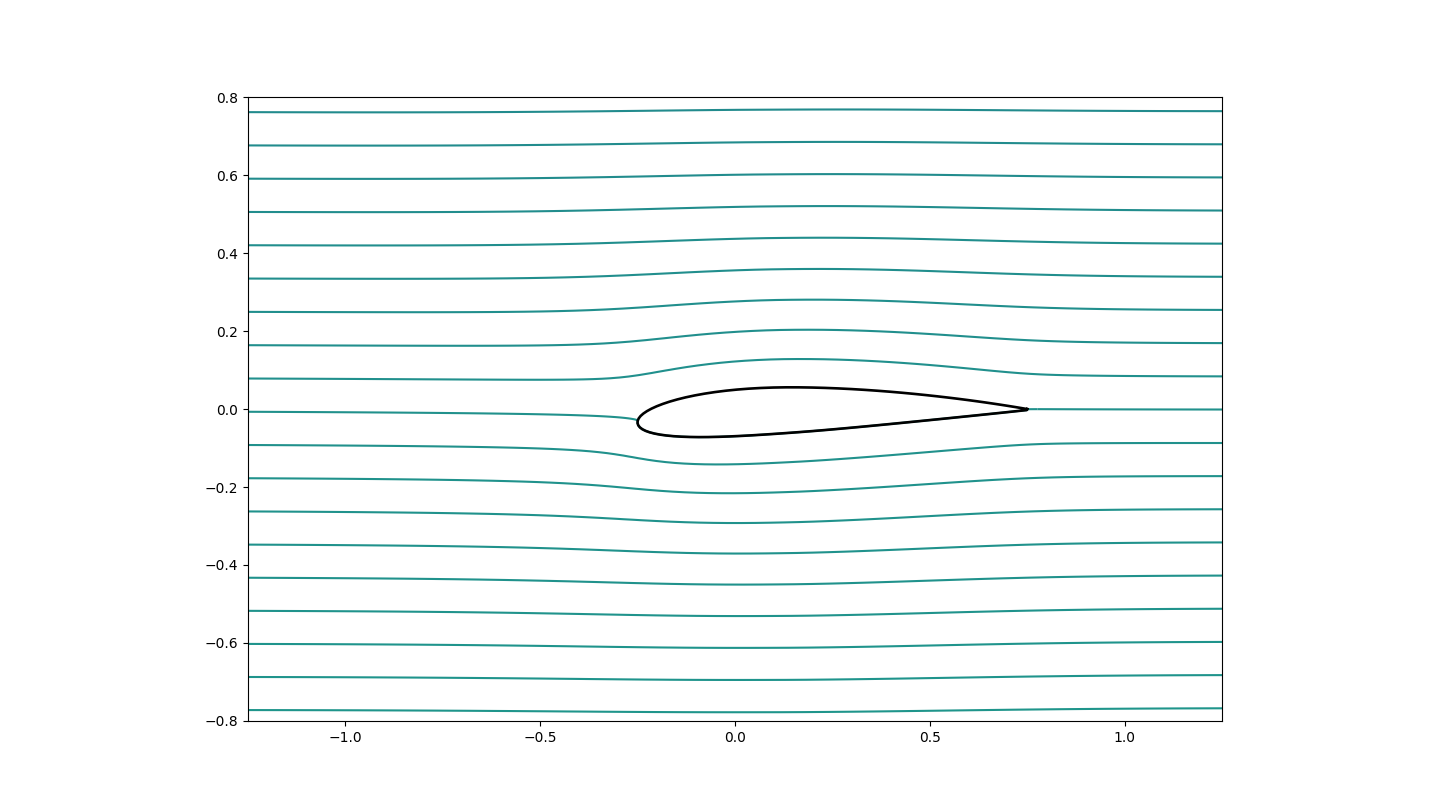
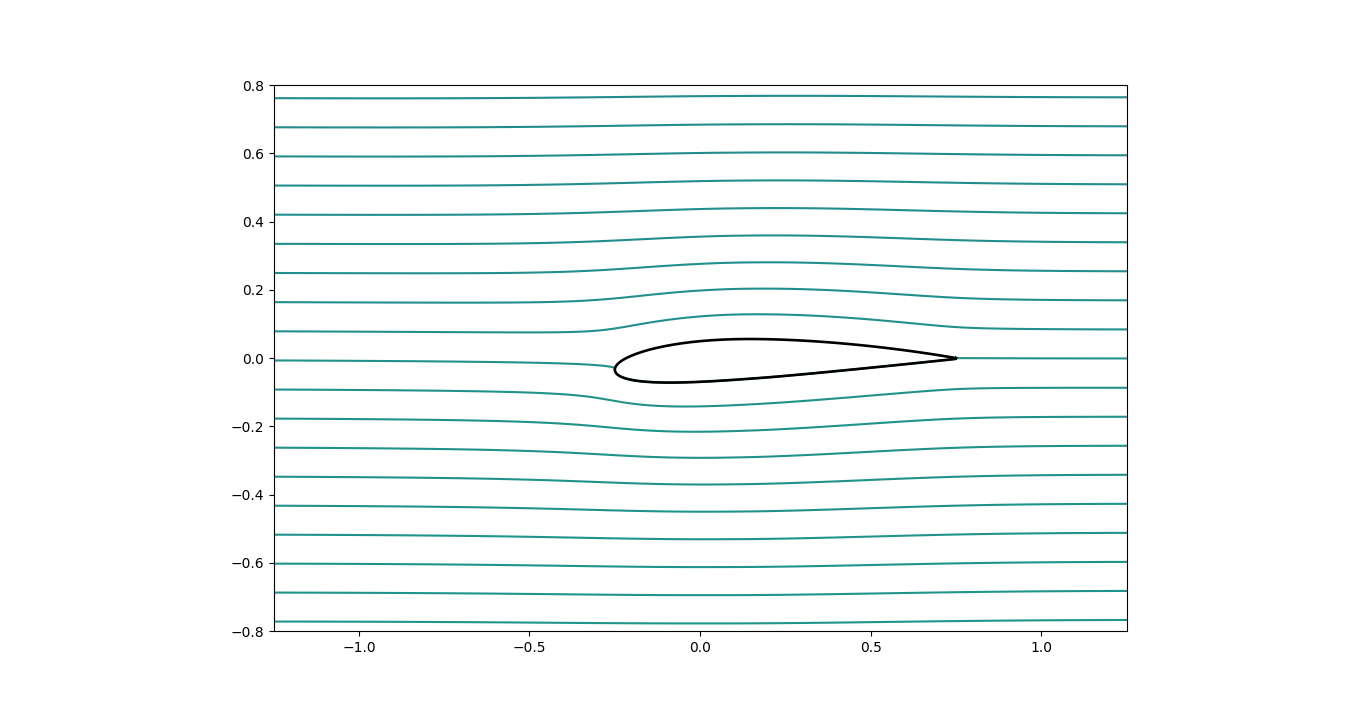
resultados flujo potencial

diff --git a/potential.py b/potential.py
@@ -108,11 +108,11 @@ def potential_flow_o(d0, H0, gamma, mach_inf, v_inf, alfa, mesh):
     PH = np.zeros((M-1, N))
     PV = np.zeros((M, N-1))
 
-    ddd = 1.0
+    err = 1.0
     it_max = 28000
     it = 0
     error = 1e-8
-    omega = 1.5
+    omega = 1.5 # 1.5
     IMA = 0
 
     arcotan = np.zeros((M,))
@@ -135,17 +135,15 @@ def potential_flow_o(d0, H0, gamma, mach_inf, v_inf, alfa, mesh):
 
     error = 1e-5
     print('Potential Flow')
-    while ddd > error and it < it_max:
+    while err > error and it < it_max:
         print('it =  ' + str(it), end=' ')
-        print('ddd = ' + '{0:.4e}'.format(ddd), end=' ')
+        print('err = ' + '{0:.4e}'.format(err), end=' ')
         print('C = ' + '{:.5e}'.format(C), end=' ')
         print('\t', end='\r')
         it += 1
         phi_old = np.copy(phi)
 
-        # Función potencial en la frontera externa
-        # phi[:, -1] = v_inf * (X[:, -1] * np.cos(alfa) + Y[:, -1]
-        #                         * np.sin(alfa)) + C * arcotan[:] / 2 / np.pi
+        # Función potencial en la frontera externa ec 4.18
         phi[:, 0] = v_inf * (X[:, 0] * np.cos(alfa) + Y[:, 0]
                               * np.sin(alfa)) + C * arcotan[:] / 2 / np.pi
 
@@ -161,6 +159,7 @@ def potential_flow_o(d0, H0, gamma, mach_inf, v_inf, alfa, mesh):
 
         # quizá se le deba restar la circulación
         PV[-1, :] = PV[0, :]
+        # PV[-1, :] = (4 * PV[0, :] - 2 * C) / 4
 
         for j in range(N-1):
             UV[:, j] = g11V[:, j] * PV[:, j] + g12V[:, j] \
@@ -259,23 +258,26 @@ def potential_flow_o(d0, H0, gamma, mach_inf, v_inf, alfa, mesh):
                         [i, j] + rhoV[i, j-1] * JV[i, j-1] * g22V[i, j-1])
 
         # Aplicamos el método SOR de sobrerelajación, ecuación.
-        phi = omega * phi + (1-omega) * phi_old
+        phi = omega * phi + (1 - omega) * phi_old
 
         # condición en la superficie del perfil
         # for i in range(1, M-1):
         for i in range(M-2, 0, -1):
             phi[i, N-1] = 1 / 3 * (4 * phi[i, N-2] - phi[i, N-3] - g12[i, N-2]
                             / g22[i, N-2] * (phi[i+1, N-1] - phi[i-1, N-1]))
+            # phi[i, N-1] = 1 / 3 * (4 * phi[i, N-2] - phi[i, N-3] - g12[i, N-1]
+            #                 / g22[i, N-1] * (phi[i+1, N-1] - phi[i-1, N-1]))
 
         phi[0, N-1] = 1 / 3 * (4 * phi[0, N-2] - phi[0, N-3] - g12[0, N-1]
                             / g22[0, N-1] * (phi[1, N-1] - phi[M-2, N-1] + C))
 
         # discontinuidad del potencial
-        for j in range(N):
-            phi[M-1, j] = phi[0, j] + C
+        # for j in range(N):
+        #     phi[M-1, j] = phi[0, j] + C
+        phi[M-1, :] = phi[0, :] + C
 
 
-        ddd = abs(phi - phi_old).max()
+        err = abs(phi - phi_old).max()
 
         # cálculo de la Circulación
         C = phi[M-2, N-1] - phi[1, N-1] - g12[0, N-1] * \
@@ -640,12 +642,12 @@ def pressure(u, v, v_inf, d_inf, gamma, p_inf, p0, d0, h0):
     d = d0 * (1 - (u ** 2 + v ** 2) / 2 / h0) ** (1 / (gamma - 1))
 
     # relaciones isentropicas
-    p = p0 / (d0 / d) ** gamma
+    # p = p0 / (d0 / d) ** gamma
     # p = (p0 - p_inf) * (d / d0) ** gamma
-    # p = p0 * (d / d0) ** gamma
-    # cp = np.real(2 * (p - p_inf) / (d_inf * v_inf ** 2))
+    p = p0 * (d / d0) ** gamma
+    cp = np.real(2 * (p - p_inf) / (d_inf * v_inf ** 2))
     # cp = 1 - (u ** 2 + v ** 2) / v_inf ** 2
-    cp = (p - p_inf) / (p0 - p_inf)
+    # cp = (p - p_inf) / (p0 - p_inf)
 
     return (cp, p)
 
@@ -660,6 +662,7 @@ def streamlines(u, v, gamma, h0, d0, p, mesh):
     mesh.Y = np.flip(mesh.Y)
     u = np.flip(u)
     v = np.flip(v)
+    p = np.flip(p)
 
     psi = np.zeros((M, N))
     JU = np.zeros((M, N))
@@ -712,13 +715,9 @@ def lift_n_drag(mesh, cp, alfa, c):
     kx = cp[:, -1] * y_xi[:, -1] / c
     ky = cp[:, -1] * x_xi[:, -1] / c
 
-    print("cp[:, -1] = ", cp[:, -1])
     xi = np.linspace(1, M, M)
-    print("xi = ", xi)
     cl_x = -np.trapz(kx, xi)
     cl_y = np.trapz(ky, xi)
-    print("cl_x = ", cl_x)
-    print("cl_y = ", cl_y)
 
     L = -cl_x * np.sin(alfa) + cl_y * np.cos(alfa)
     D = cl_x * np.cos(alfa) + cl_y * np.sin(alfa)

diff --git a/Escrito/tesis.tex b/Escrito/tesis.tex
@@ -4244,7 +4244,7 @@
     \begin{figure}[htbp!]
         \centering
         \subfigure[$\alpha = -4\si{\degree}$]{\label{fig:potential_flow_stream_-4}\includegraphics[keepaspectratio,
-            width=90mm]{./Imagenes/potential_flow_stream_-4}}
+            width=95mm]{./Imagenes/potential_flow_stream_-4}}
 
           \subfigure[$\alpha = -2\si{\degree}$]{\label{fig:potential_flow_stream_-2}\includegraphics[keepaspectratio,
             width=95mm]{./Imagenes/potential_flow_stream_-2}}
@@ -4262,16 +4262,16 @@
     \begin{figure}[htbp!]
         \centering
         \subfigure[$\alpha = 4\si{\degree}$]{\label{fig:potential_flow_stream_4}\includegraphics[keepaspectratio,
-            width=93mm]{./Imagenes/potential_flow_stream_4}}
+            width=95mm]{./Imagenes/potential_flow_stream_4}}
 
           \subfigure[$\alpha = 6\si{\degree}$]{\label{fig:potential_flow_stream_6}\includegraphics[keepaspectratio,
-            width=93mm]{./Imagenes/potential_flow_stream_6}}
+            width=95mm]{./Imagenes/potential_flow_stream_6}}
 
           \subfigure[$\alpha = 8\si{\degree}$]{\label{fig:potential_flow_stream_8}\includegraphics[keepaspectratio,
-            width=93mm]{./Imagenes/potential_flow_stream_8}}
+            width=95mm]{./Imagenes/potential_flow_stream_8}}
 
           \subfigure[$\alpha = 10\si{\degree}$]{\label{fig:potential_flow_stream_10}\includegraphics[keepaspectratio,
-            width=93mm]{./Imagenes/potential_flow_stream_10}}
+            width=95mm]{./Imagenes/potential_flow_stream_10}}
 
         \caption{Líneas de corriente}
         \label{fig:potential_flow_stream_1}

diff --git a/main_potential.py b/main_potential.py
@@ -46,7 +46,7 @@ R = 20 * c
 
 perfil = airfoil.NACA4(m, p, t, c)
 perfil.create_sin(points)
-perfil.rotate(2)
+# perfil.rotate(2)
 
 archivo_perfil = 'perfil_final.csv'
 if malla == 'O':
@@ -93,7 +93,7 @@ t_inf = 293.15 # [K]
 p_inf = 101325  # [Pa]
 v_inf = 48 # [m / s]
 
-alfa = 0
+alfa = 6
 
 gamma = 1.4
 cp_ = 1007
@@ -139,8 +139,8 @@ if flag == 'S':
 (u, v) = velocity(alfa, C, mach_inf, theta, mallaNACA, phi, v_inf)
 (cp, p) = pressure(u, v, v_inf, d_inf, gamma, p_inf, p0, d0, h0)
 (psi, mach) = streamlines(u, v, gamma, h0, d0, p, mallaNACA)
-# (L, D) = lift_n_drag(mallaNACA, cp, alfa, c)
-(L, D) = lift_n_drag(mallaNACA, cp, 2, c)
+(L, D) = lift_n_drag(mallaNACA, cp, alfa, c)
+# (L, D) = lift_n_drag(mallaNACA, cp, 2, c)
 
 print('L = ' + str(L))
 print('D = ' + str(D))

diff --git a/main_potential_after.py b/main_potential_after.py
@@ -45,7 +45,7 @@ Re = v_inf * d_inf / mu
 
 
 path = '/home/cardoso/'
-direc = 'zero'
+direc = 'four-'
 mallaNACA = helpers.from_txt_mesh(filename='./potential_2412/' + direc
                                   + '/mallaNACA.txt_mesh')
 phi = np.genfromtxt('./potential_2412/' + direc + '/phi.csv', delimiter=',')
@@ -57,7 +57,7 @@ theta = np.genfromtxt('./potential_2412/' + direc + '/theta.csv',
 (u, v) = velocity(alfa, C, mach_inf, theta, mallaNACA, phi, v_inf)
 (cp, p) = pressure(u, v, v_inf, d_inf, gamma, p_inf, p0, d0, h0)
 (psi, mach) = streamlines(u, v, gamma, h0, d0, p, mallaNACA)
-(L, D) = lift_n_drag(mallaNACA, cp, 0, 1)
+(L, D) = lift_n_drag(mallaNACA, cp, 10, 1)
 print("L = " + str(L))
 print("D = " + str(D))
 
